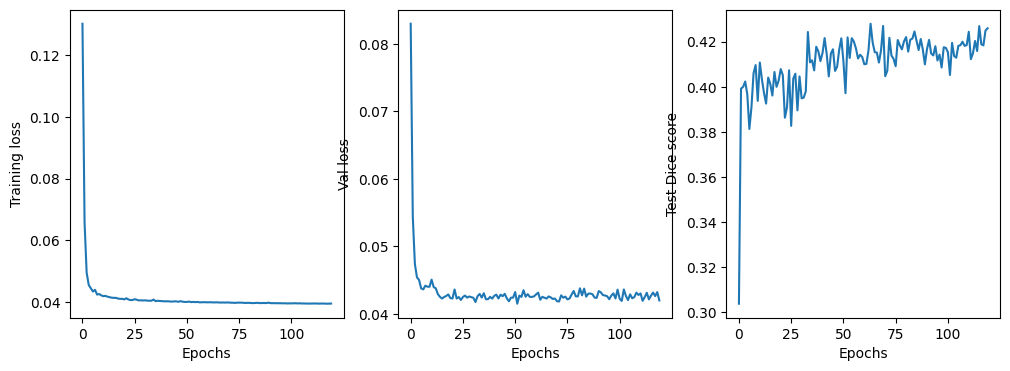
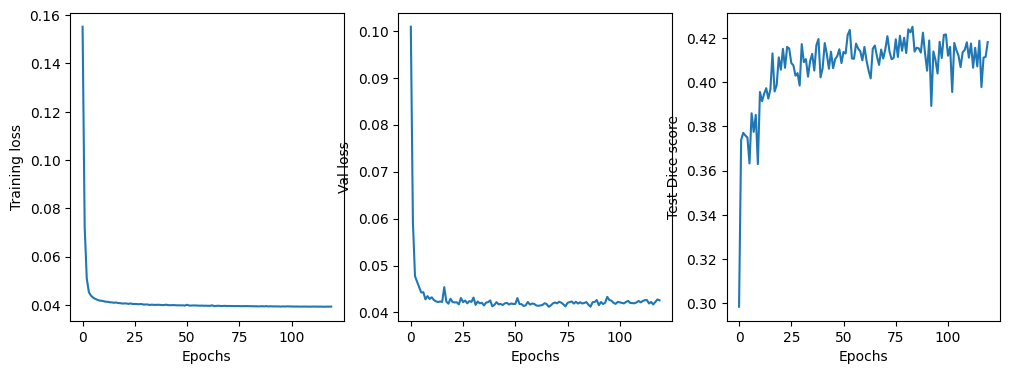
some minor fixes about relu inplace, adding a in_conv before the VT. The result is incomclusive

diff --git a/unet/unet_parts.py b/unet/unet_parts.py
@@ -13,7 +13,8 @@ class DoubleConv(nn.Module):
         # self.norm = nn.GroupNorm(in_channels, in_channels)
         self.norm = nn.BatchNorm2d(in_channels)
         self.conv = nn.Sequential(
-            nn.ReLU(inplace=True),
+            nn.ReLU(inplace=False), 
+            #changing the first ReLU to nn.ReLU(inplace=False) fixes the unintended modification of the tensor used by the residual branch.
             nn.Conv2d(in_channels, out_channels, kernel_size=3, padding=1, bias=True),
             # nn.GroupNorm(out_channels, out_channels),
             nn.BatchNorm2d(out_channels),
@@ -96,18 +97,19 @@ class Transformer(nn.Module):
     '''
     """adding positional encoding and multiple Transformer blocks"""
 
-    def __init__(self, n_heads=1, dim_embd = 1024, n_blocks=5, p_drop = 0.2, n_token=408, dim_embd_in=512, n_channel_out =4):
+    def __init__(self, n_heads=1, dim_embd = 1024, n_blocks=5, p_drop = 0.2, n_token=408, dim_embd_in=512, dim_embd_out=512, n_channel_in =1, n_channel_out =4):
         super().__init__()
 
         # calculate all dimensions
         self.n_token = n_token # number of tokens: number of row or number of col
         self.dim_embd = dim_embd # attention embedding dimension
         self.dim_embd_in = dim_embd_in
+        self.n_channel_in = n_channel_in
         self.n_channel_out = n_channel_out
 
         #Linear projection
-        self.in_linear = nn.Linear(self.dim_embd_in, self.dim_embd)
-        self.out_linear = nn.Linear(self.dim_embd, self.dim_embd_in * n_channel_out)
+        self.in_linear = nn.Linear(self.dim_embd_in*n_channel_in, self.dim_embd)
+        self.out_linear = nn.Linear(self.dim_embd, dim_embd_out * n_channel_out)
 
         #Transformer train
         blocks = [Transformer_element(n_heads=n_heads, dim_embd=dim_embd, n_token=n_token, p_drop=p_drop) for _ in range(n_blocks)]
@@ -120,13 +122,16 @@ class Transformer(nn.Module):
     def forward(self, x: torch.Tensor):
         # assetion of the input size
         B, C, T, E = x.size()
-        assert C == 1 and T == self.n_token and E == self.dim_embd_in, \
-            f"Expected [B,1,{self.n_token},{self.dim_embd_in}], got {x.shape}"
+        assert C == self.n_channel_in and T == self.n_token and E == self.dim_embd_in, \
+            f"Expected [B,{self.n_channel_in},{self.n_token},{self.dim_embd_in}], got {x.shape}"
+        assert self.n_channel_out%self.n_channel_in == 0, \
+            f"n_channel_in {self.n_channel_out} cannot be devided by n_channel_out {self.n_channel_in}"
         assert T == self.n_token
         assert E == self.dim_embd_in
 
-        # Transpose the array, each row is a token. n_row is n_token
-        x_t = x.reshape(B,T,E) # no permuation is needed .permute(0,2,1) the input is already in column major format
+        # Each row is a token. n_row is n_token
+        x_t = x.permute(0,2,3,1) # First permute to channel last
+        x_t = x_t.reshape(B,T,E*C) # reshape the tensor, so the last dim is n_channel * n_embd_in
 
         # Linear projection, change the embedding dimension
         xp = self.in_linear(x_t)
@@ -136,9 +141,8 @@ class Transformer(nn.Module):
         # Linear projection, outputs n_channel_out channels, so n_channel_out * dim_embd_in
         xp = self.out_linear(xp)
         # First reshape to channel last, then permute the axes.
-        # xout = xp.reshape(B, T, E, self.n_channel_out).permute(0,3,2,1)
-        xout = xp.reshape(B, T, E, self.n_channel_out).permute(0,3,1,2) # channel first, the image is still transposed 
-        xout = xout + torch.cat([x]*self.n_channel_out, dim=1) #resdual connection
+        xout = xp.reshape(B, T, E, self.n_channel_out).permute(0,3,1,2) # channel first, 
+        xout = xout + torch.cat([x]*(self.n_channel_out//self.n_channel_in), dim=1) #resdual connection
         return xout
     
 class Transformer_element(nn.Module):
@@ -170,12 +174,11 @@ class Transformer_element(nn.Module):
         # 1. Attention Stage with residual
         xp = self.ln1(x) 
         attn_out, _ = self.mhatt(xp, xp, xp)
-        x = x + self.relu(attn_out) # residual connection 1
-        
+        x = x + attn_out
+
         # 2. MLP Stage with residual
         xp = self.ln2(x) 
-        mlp_out = self.mlp(xp)
-        x = x + mlp_out # residual connection 2
+        x = x + self.mlp(xp) # residual connection 2
         
         return x
     
@@ -225,14 +228,16 @@ class Up(nn.Module):
 class OutConv(nn.Module):
     def __init__(self, in_channels, out_channels):
         super(OutConv, self).__init__()
-        self.relu = nn.ReLU(inplace=True)
+        self.relu1 = nn.ReLU(inplace=False)
+        #changing the first ReLU to nn.ReLU(inplace=False) fixes the unintended modification of the tensor used by the residual branch.
+        self.relu2 = nn.ReLU(inplace=True)
         self.norm = nn.BatchNorm2d(in_channels)
         self.conv1 = nn.Conv2d(in_channels, in_channels, kernel_size=1)
         self.conv2 = nn.Conv2d(in_channels, out_channels, kernel_size=1)
     def forward(self, x):
-        x = self.relu(x)
+        x = self.relu1(x)
         y = self.conv1(x) 
-        y = self.relu(y)+ x
+        y = self.relu2(y)+ x
         y = self.norm(y)
         y = self.conv2(y)
         return y

diff --git a/forward_gentrain.py b/forward_gentrain.py
@@ -483,7 +483,7 @@ class GenTrain():
         omode = morphology.remove_small_holes(omode, area_threshold=10, connectivity=1)
         xmode = morphology.remove_small_holes(xmode, area_threshold=10, connectivity=1)
         # Optional random rotation to make examples more general
-        if np.random.rand() < 0.5:
+        if np.random.uniform(0,1) < 0.4:
             from scipy.ndimage import rotate
             angle = np.random.uniform(-5, 5)
             omode = rotate(omode, angle, reshape=False, order=0)
@@ -492,7 +492,7 @@ class GenTrain():
             omode_clean = rotate(omode_clean, angle, reshape=False, order=0)
             xmode_clean = rotate(xmode_clean, angle, reshape=False, order=0)
 
-        if np.random.rand() < 0.3:
+        if np.random.uniform(0,1) < 0.3:
             crop_idx = np.random.randint(int(0.2 * self.freqs.shape[0]), int(0.6 * self.freqs.shape[0]))
             multihop_map[:, :crop_idx] = 0
 
@@ -510,6 +510,14 @@ class GenTrain():
             omode_clean = np.zeros(omode_clean.shape, dtype=np.uint8)
             xmode_clean = np.zeros(xmode_clean.shape, dtype=np.uint8)
             multihop_map = np.zeros(multihop_map.shape, dtype=np.uint8)
+
+        if np.random.uniform(0,1) < 0.25:
+            crop_idx = np.random.randint(90, 130)
+            omode[:crop_idx, :] = 0
+            xmode[:crop_idx, :] = 0
+            multihop_map[:crop_idx, :] = 0
+            omode_clean[:crop_idx, :] = 0
+            xmode_clean[:crop_idx, :] = 0
 
         if omode_clean.sum() == 0:
             omode_gaussian = np.zeros_like(omode_clean, dtype=np.float16)

diff --git a/unet/unet_model.py b/unet/unet_model.py
@@ -15,11 +15,15 @@ class UNet(nn.Module):
         self.n_channels = n_channels
         self.n_classes = n_classes
         n_att_channel = 4
-        # Transformer-only model: we output directly to the required number of classes
-        self.att = Transformer(n_heads=4, dim_embd=1024, n_blocks=16, p_drop=dropout_p, n_token=input_size[0], dim_embd_in=input_size[1], n_channel_out=n_att_channel)
+
+        self.inc_at = (DoubleConv(n_channels, n_att_channel))
+
+        self.att = Transformer(n_heads=4, dim_embd=1024, n_blocks=8, p_drop=dropout_p,
+                             n_token=input_size[0], dim_embd_in=input_size[1], dim_embd_out=input_size[1], 
+                             n_channel_in=n_att_channel, n_channel_out=n_att_channel)
         
         self.dropout_p = in_dropout_p
-
+        
         self.inc = (DoubleConv(n_att_channel, 64))
         self.down1 = (Down(64, 128))
         self.down2 = (Down(128, 256))
@@ -33,7 +37,8 @@ class UNet(nn.Module):
 
     def forward(self, x):
         xd = nn.functional.dropout(x, p=self.dropout_p, training=True)
-        xa = self.att(xd)
+        xa = self.inc_at(xd)
+        xa = self.att(xa)
 
         x1 = self.inc(xa)
         # x1 = self.drop_layer(x1)

diff --git a/visualize_test.py b/visualize_test.py
@@ -105,7 +105,7 @@ def main():
                 
                 self.ims['gt_comb'] = self.axs[0, 3].imshow(gt_O.T + gt_X.T, origin='lower', aspect='auto', cmap='viridis', interpolation='none')
                 self.axs[0, 3].set_title('Ground Truth Combined')
-                self.axs[0, 3].axis('off')
+                # self.axs[0, 3].axis('off')
                 
                 self.ims['pred_in'] = self.axs[1, 0].imshow(input_img.T, origin='lower', aspect='auto', cmap='gray', interpolation='none')
                 self.axs[1, 0].set_title('Input Image')

diff --git a/model_train.py b/model_train.py
@@ -150,7 +150,7 @@ else: resize = None
 
 
 
-model = UNet(n_channels=1, n_classes=4, input_size=target_size, in_dropout_p = 0.3, dropout_p=0.3)
+model = UNet(n_channels=1, n_classes=4, input_size=target_size, in_dropout_p = 0.3, dropout_p=0.15)
 
 model = model.to(device=device)
 model.train()
